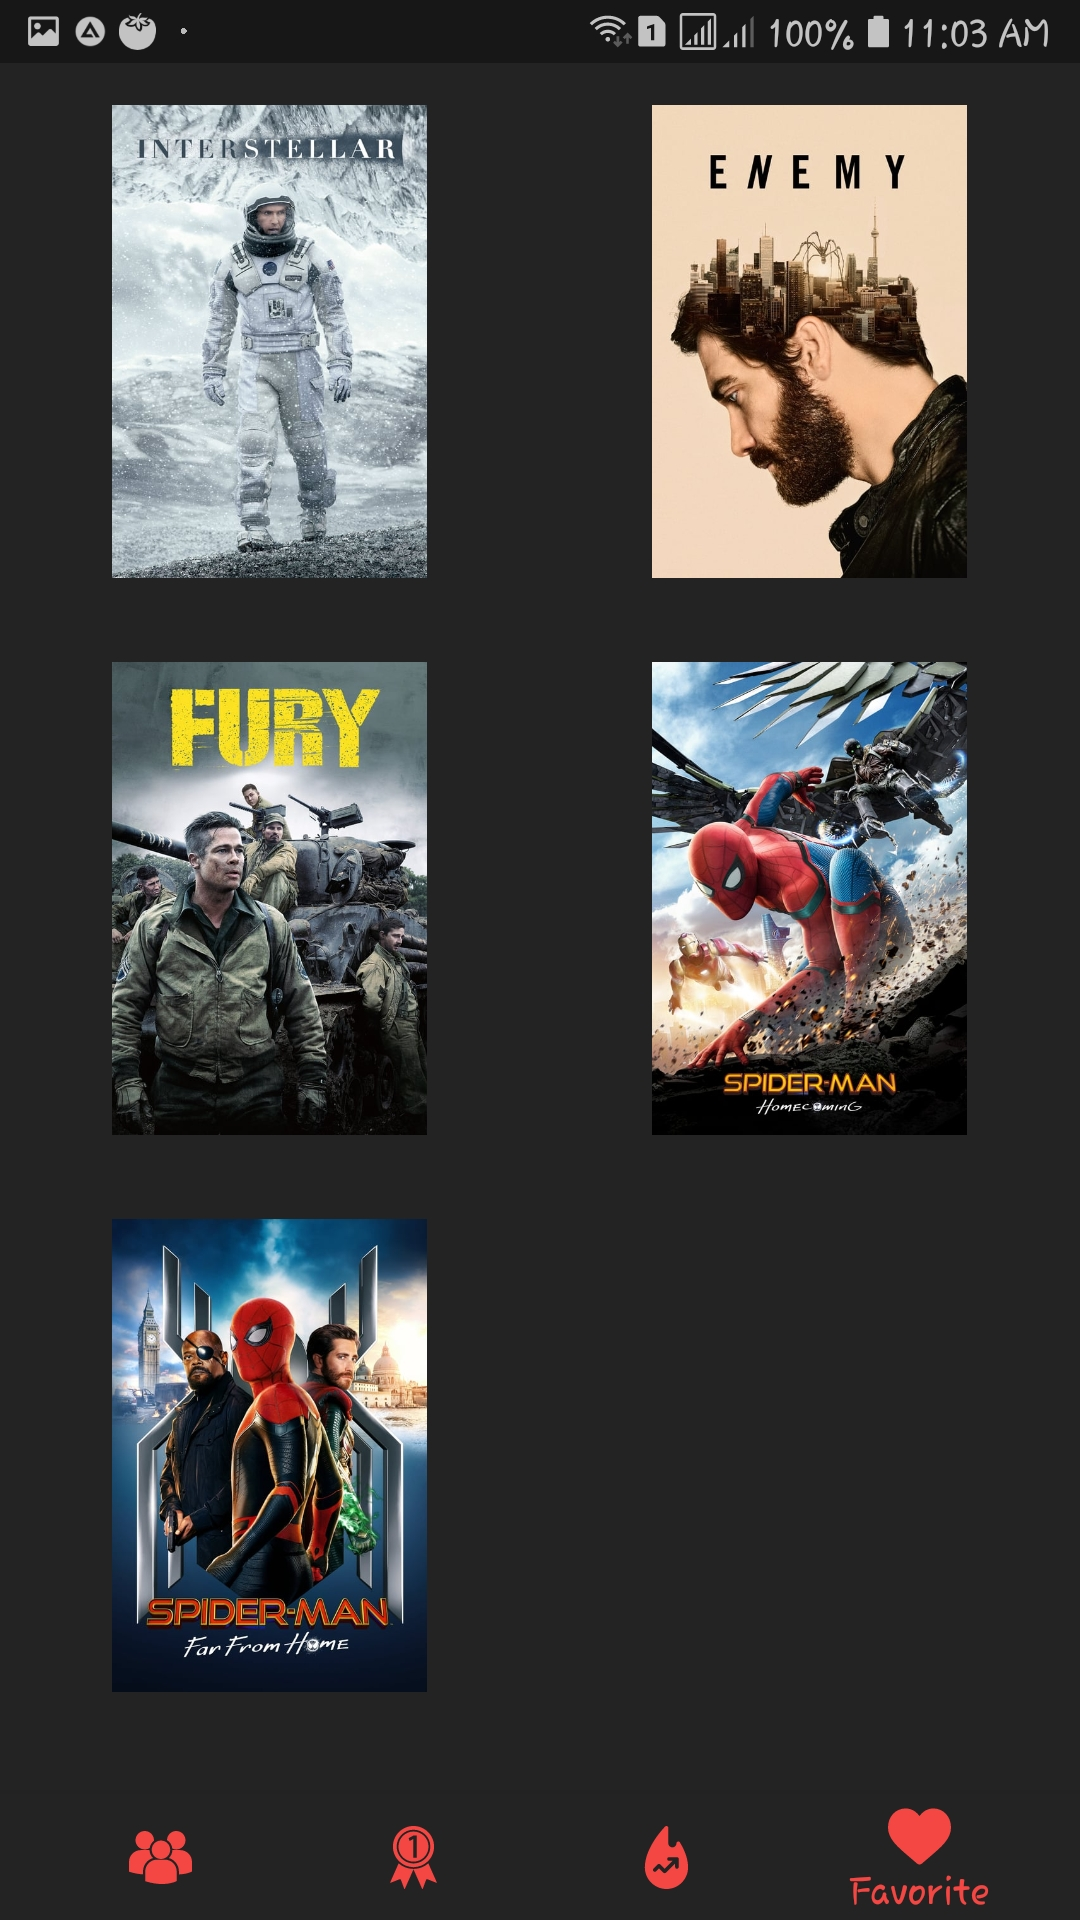
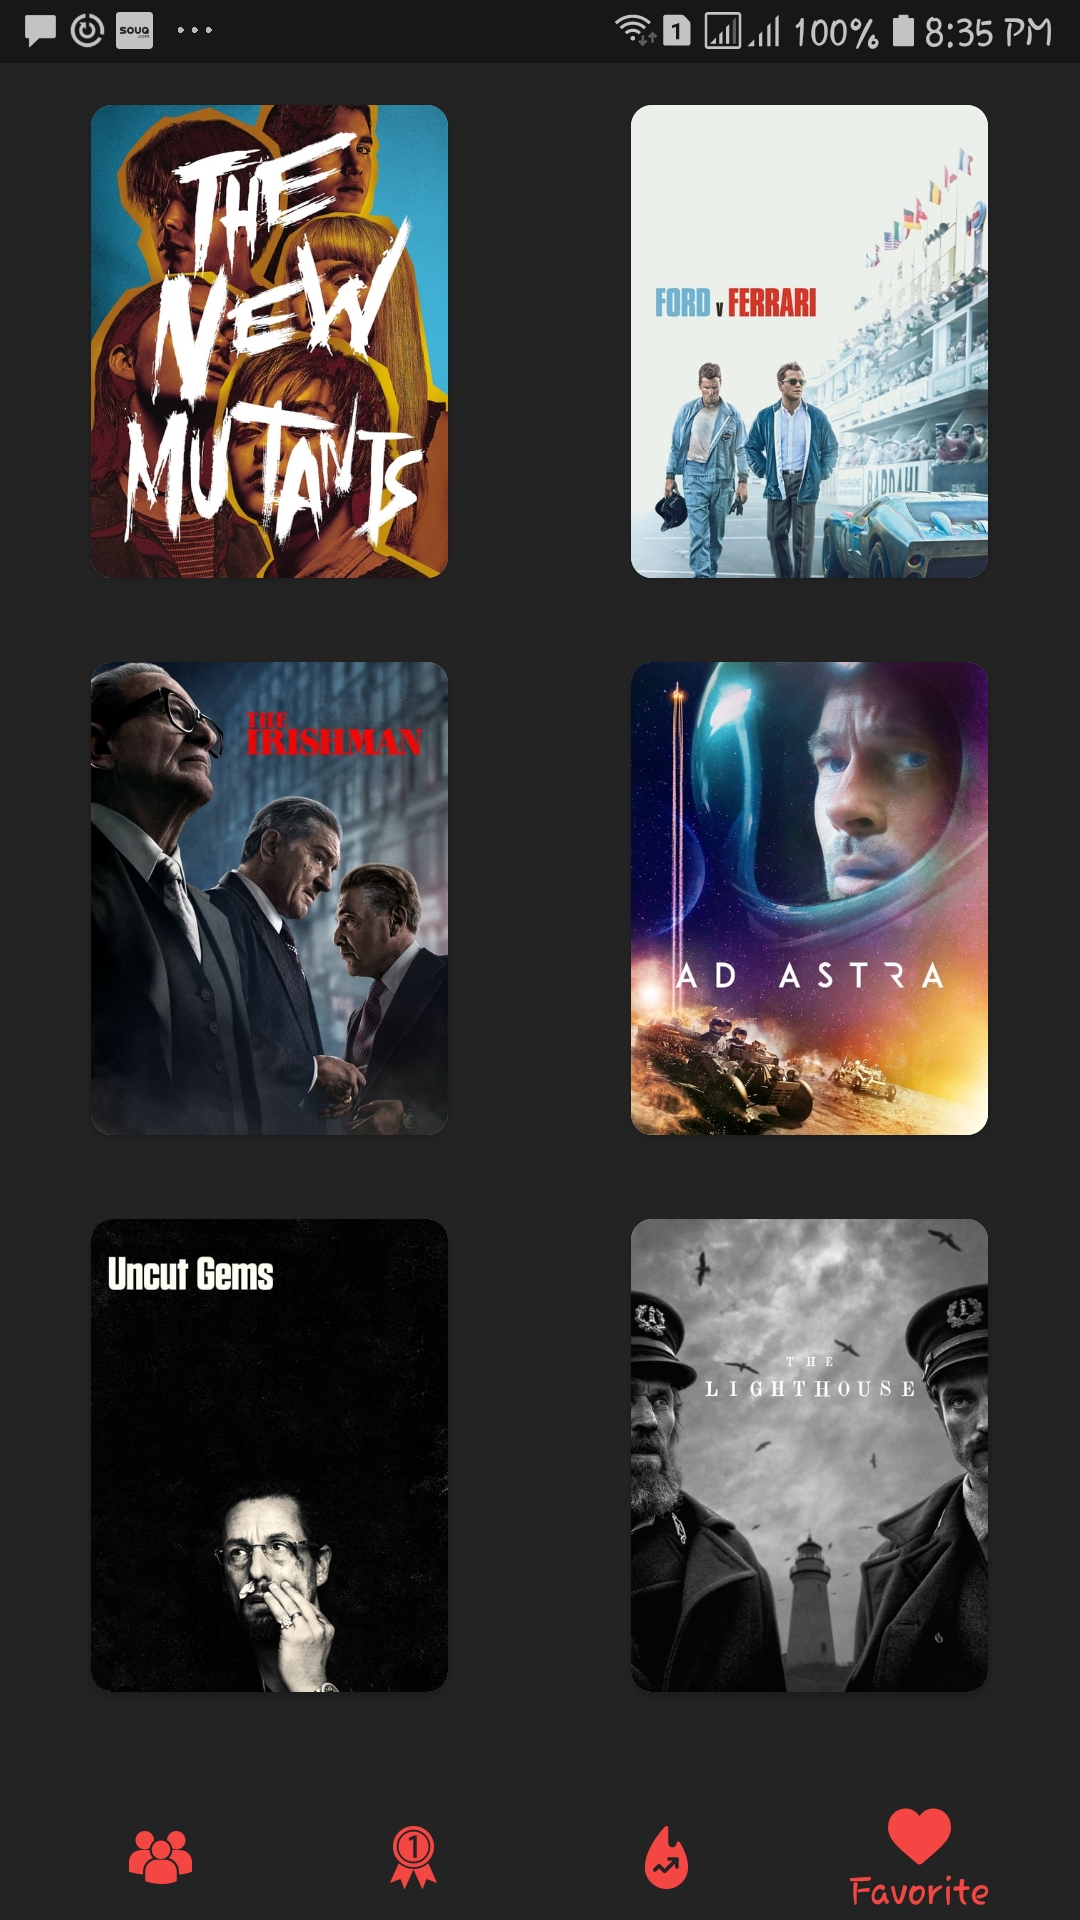
adding card view to favorites

diff --git a/app/src/main/java/ui/activities/MovieActivity.kt b/app/src/main/java/ui/activities/MovieActivity.kt
@@ -13,7 +13,7 @@ import androidx.lifecycle.Observer
 import androidx.recyclerview.widget.LinearLayoutManager
 import com.example.moviesnews.MoviesRepository
 import com.example.moviesnews.R
-import com.example.moviesnews.Utils
+//import com.example.moviesnews.Utils
 import com.squareup.picasso.Picasso
 import dagger.hilt.android.AndroidEntryPoint
 import kotlinx.android.synthetic.main.activity_movie.*
@@ -25,13 +25,14 @@ import viewmodels.MovieViewModel
 import javax.inject.Inject
 
 private const val TAG = "MovieActivity"
+private const val ID = "id"
 @AndroidEntryPoint
 class MovieActivity : AppCompatActivity() {
     private val movieViewModel: MovieViewModel by viewModels()
     private lateinit var recommendedMoviesAdapter: RecommendedMoviesAdapter
 
     private var key = ""
-    private var movieId = 0
+    private var movieId = 0L
     private var frontPosterUrl = ""
     private var backPosterUrl = ""
     private var homePage = ""
@@ -43,6 +44,12 @@ class MovieActivity : AppCompatActivity() {
     override fun onCreate(savedInstanceState: Bundle?) {
         super.onCreate(savedInstanceState)
         setContentView(R.layout.activity_movie)
+
+        movieId = intent.getLongExtra(ID,0L)
+
+//        startActivity(Intent(this,MovieViewModel::class.java).apply {
+//            putExtra(ID,movieId)
+//        })
 
         //recycler view
         movies_recycler_view.layoutManager =
@@ -129,7 +136,7 @@ class MovieActivity : AppCompatActivity() {
     override fun onStart() {
         super.onStart()
         scope.launch {
-            val returned : FavoriteMovieModel? = repository.getMovie(Utils.itemId)
+            val returned : FavoriteMovieModel? = repository.getMovie(movieId)
 
             if (returned != null) {
 

diff --git a/app/src/main/java/com/example/moviesnews/MoviesRepository.kt b/app/src/main/java/com/example/moviesnews/MoviesRepository.kt
@@ -22,13 +22,13 @@ class MoviesRepository @Inject constructor() {
 
     suspend fun getUpComingMovies () : List<Movie> = movieApi.getUpComingMovies().results
 
-    suspend fun getMovieDetails() : DetailedMovie =  movieApi.getMovieDetails(Utils.itemId)
+    suspend fun getMovieDetails(movieId: Long) : DetailedMovie =  movieApi.getMovieDetails(movieId)
 
-    suspend fun getMovieRecommendations () : List<Movie> = movieApi.getMovieRecommendations(Utils.itemId).results
+    suspend fun getMovieRecommendations (movieId: Long) : List<Movie> = movieApi.getMovieRecommendations(movieId).results
 
-    suspend fun getMovieTrailer () : List<Result>  = movieApi.getMovieTrailer(Utils.itemId).results
+    suspend fun getMovieTrailer (movieId: Long) : List<Result>  = movieApi.getMovieTrailer(movieId).results
 
-    suspend fun getFavoriteMovies(movieId:Int) : DetailedMovie =  movieApi.getFav(movieId)
+   // suspend fun getFavoriteMovies(movieId:Int) : DetailedMovie =  movieApi.getFav(movieId)
 
     // Database stuff
 
@@ -36,7 +36,7 @@ class MoviesRepository @Inject constructor() {
 
    fun getMovies() : LiveData<List<FavoriteMovieModel>> = movieDao.getMovies()
 
-    suspend fun getMovie(movieId:Int) : FavoriteMovieModel = movieDao.getMovie(movieId)
+    suspend fun getMovie(movieId:Long) : FavoriteMovieModel = movieDao.getMovie(movieId)
 
     suspend fun insertMovie(model: FavoriteMovieModel) = movieDao.insertMovie(model)
 

diff --git a/app/src/main/java/viewmodels/MovieViewModel.kt b/app/src/main/java/viewmodels/MovieViewModel.kt
@@ -10,23 +10,25 @@ import com.example.moviesnews.*
 import models.DetailedMovie
 import models.Movie
 import models.Result
-
+private const val ID = "id"
 class MovieViewModel @ViewModelInject constructor(
     private val moviesRepository: MoviesRepository,
     @Assisted private val savedStateHandle: SavedStateHandle
     ) : ViewModel() {
 
+    private val movieId = savedStateHandle.get<Long>(ID)!!
+
     val detailedMovieLiveData : LiveData<DetailedMovie> = liveData {
-        val data = moviesRepository.getMovieDetails()
+        val data = moviesRepository.getMovieDetails(movieId)
         emit(data)
     }
 
     val recommendedMoviesLiveData : LiveData<List<Movie>> = liveData {
-        val data = moviesRepository.getMovieRecommendations()
+        val data = moviesRepository.getMovieRecommendations(movieId)
         emit(data)
     }
     val movieTrailersLiveData : LiveData<List<Result>> = liveData {
-        val data =  moviesRepository.getMovieTrailer()
+        val data =  moviesRepository.getMovieTrailer(movieId)
         emit(data)
     }
 

diff --git a/app/src/main/java/network/MovieApi.kt b/app/src/main/java/network/MovieApi.kt
@@ -18,15 +18,15 @@ interface MovieApi  {
     suspend fun getUpComingMovies(): MovieResponse
 
     @GET("{movie_id}?api_key=$apiKey")
-    suspend fun getMovieDetails( @Path ("movie_id") id:Int): DetailedMovie
+    suspend fun getMovieDetails( @Path ("movie_id") id:Long): DetailedMovie
 
     @GET("{movie_id}/recommendations?api_key=$apiKey")
-    suspend fun getMovieRecommendations( @Path ("movie_id") id:Int): MovieResponse
+    suspend fun getMovieRecommendations( @Path ("movie_id") id:Long): MovieResponse
 
     @GET("{movie_id}/videos?api_key=$apiKey")
-    suspend fun getMovieTrailer(@Path("movie_id")id:Int): MovieTrailerModel
+    suspend fun getMovieTrailer(@Path("movie_id")id:Long): MovieTrailerModel
 
     @GET("{movie_id}?api_key=$apiKey")
-    suspend fun getFav( @Path ("movie_id") id:Int): DetailedMovie
+    suspend fun getFav( @Path ("movie_id") id:Long): DetailedMovie
 
 }

diff --git a/app/src/main/java/com/example/moviesnews/Utils.kt b/app/src/main/java/com/example/moviesnews/Utils.kt
@@ -8,12 +8,6 @@ import android.net.NetworkInfo
 
 object Utils {
 
-    var itemId = 0
-
-    fun setMovieDataForIntent(itemId:Int) {
-        this.itemId = itemId
-    }
-
      fun checkConnectivity(context: Context): Boolean {
         val connectivityManager = context.getSystemService(Context.CONNECTIVITY_SERVICE) as ConnectivityManager?
         return connectivityManager!!.getNetworkInfo(ConnectivityManager.TYPE_MOBILE)?.state == NetworkInfo.State.CONNECTED ||

diff --git a/app/src/main/java/models/DetailedMovie.kt b/app/src/main/java/models/DetailedMovie.kt
@@ -5,7 +5,7 @@ data class DetailedMovie (val backdrop_path:String,
                           val budget:Int,
                           val genres:List<Genre>,
                           val homepage:String,
-                          val id:Int,
+                          val id:Long,
                           val imdb_id:String,
                           val original_language:String,
                           val original_title:String,

diff --git a/app/src/main/java/ui/activities/MainActivity.kt b/app/src/main/java/ui/activities/MainActivity.kt
@@ -33,9 +33,9 @@ class MainActivity : AppCompatActivity(), Callback {
         bottom_nav.setupWithNavController(navController)
     }
 
-    override fun onMovieClicked() {
+    override fun onMovieClicked(movieId:Long) {
         val movieIntent = Intent(this, MovieActivity::class.java)
-        movieIntent.putExtra(ID, Utils.itemId)
+        movieIntent.putExtra(ID, movieId)
         startActivity(movieIntent)
     }
 

diff --git a/app/src/main/java/database/MovieDao.kt b/app/src/main/java/database/MovieDao.kt
@@ -17,7 +17,7 @@ interface MovieDao {
     fun getMovies() : LiveData<List<FavoriteMovieModel>>
 
     @Query ("SELECT * FROM favoritemoviemodel WHERE movieId=(:itemId)")
-    suspend fun getMovie (itemId:Int): FavoriteMovieModel
+    suspend fun getMovie (itemId:Long): FavoriteMovieModel
 
     @Insert
     suspend fun insertMovie(movieModel: FavoriteMovieModel)

diff --git a/app/src/main/java/adapters/ApiMoviesAdapter.kt b/app/src/main/java/adapters/ApiMoviesAdapter.kt
@@ -46,8 +46,7 @@ class ApiMoviesAdapter (private val movies:List<Movie>) :
 
             override fun onClick(item: View?) {
                 val movie = movies[adapterPosition]
-                Utils.setMovieDataForIntent(movie.id)
-                callback.onMovieClicked()
+                callback.onMovieClicked(movie.id)
             }
 
         }

diff --git a/app/src/main/java/adapters/DbMoviesAdapter.kt b/app/src/main/java/adapters/DbMoviesAdapter.kt
@@ -38,8 +38,7 @@ import ui.fragments.callback
 
             override fun onClick(item: View?) {
                 val movie = movies[adapterPosition]
-                Utils.setMovieDataForIntent(movie.movieId)
-                callback.onMovieClicked()
+                callback.onMovieClicked(movie.movieId)
             }
 
         }

diff --git a/app/src/main/java/adapters/RecommendedMoviesAdapter.kt b/app/src/main/java/adapters/RecommendedMoviesAdapter.kt
@@ -36,8 +36,7 @@ class RecommendedMoviesAdapter(private val movies: List<Movie>) :
 
         override fun onClick(item: View?) {
             val movie = movies[adapterPosition]
-            Utils.setMovieDataForIntent(movie.id)
-            callback.onMovieClicked()
+            callback.onMovieClicked(movie.id)
         }
 
     }

diff --git a/app/src/main/java/models/FavoriteMovieModel.kt b/app/src/main/java/models/FavoriteMovieModel.kt
@@ -4,5 +4,5 @@ import androidx.room.Entity
 import androidx.room.PrimaryKey
 
 @Entity
-data class FavoriteMovieModel (@PrimaryKey val movieId:Int, val posterPath:String) {
+data class FavoriteMovieModel (@PrimaryKey val movieId:Long, val posterPath:String) {
 }
